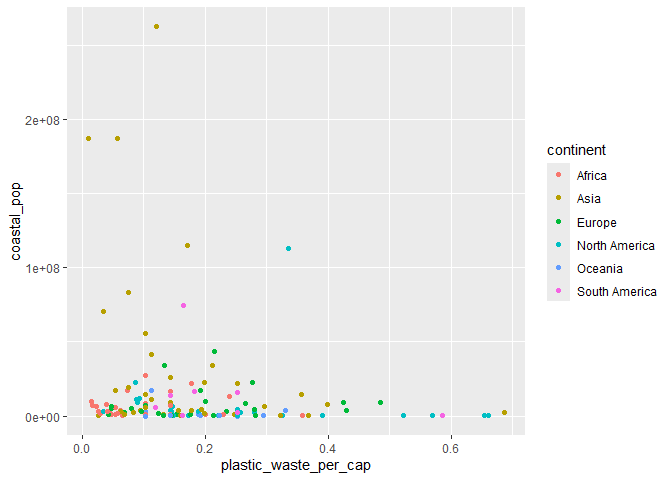
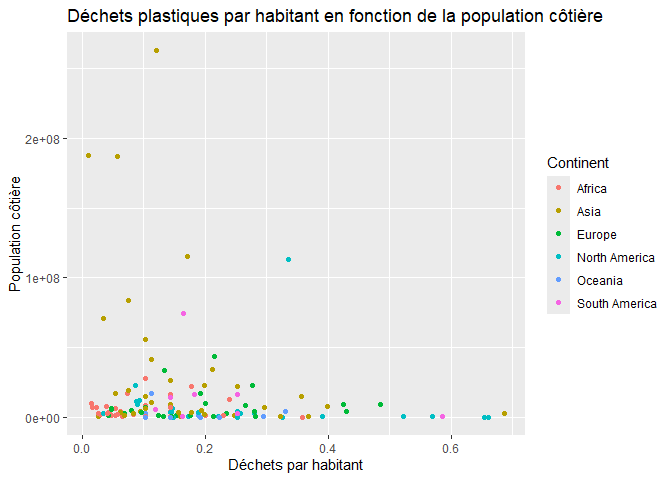
Labo terminer

diff --git a/lab-02.md b/lab-02.md
@@ -29,7 +29,7 @@ plastic_waste <- plastic_waste %>%
 ggplot(plastic_waste, aes(x = plastic_waste_per_cap)) +
   geom_histogram(binwidth = 0.2) +
   facet_wrap(~ continent) +
-  labs(title = 'quantité de déchet par habitant')
+  labs(title = 'Quantité de déchets par habitant', x = 'Déchets par habitant', y = 'Nombre de pays')
 ```
 
 ![](lab-02_files/figure-gfm/plastic-waste-continent-1.png)<!-- -->
@@ -40,7 +40,8 @@ ggplot(plastic_waste, aes(x = plastic_waste_per_cap)) +
 ggplot(plastic_waste, aes(x = plastic_waste_per_cap,
                           fill = continent, color = continent)) + 
   geom_density(adjust = 1,
-               alpha = 0.4)
+               alpha = 0.4) +
+  labs(title = 'Distribution des déchets par habitant', x = 'Déchets par habitant', y = 'Densité')
 ```
 
 ![](lab-02_files/figure-gfm/plastic-waste-density-1.png)<!-- -->
@@ -56,7 +57,8 @@ Boxplot:
 
 ``` r
 ggplot(plastic_waste, aes(x = continent, y = plastic_waste_per_cap)) +
-  geom_boxplot()
+  geom_boxplot() +
+  labs(title = 'Répartition des déchets par habitant selon le continent', y = 'Déchets par habitant', x = 'Continent')
 ```
 
 ![](lab-02_files/figure-gfm/plastic-waste-boxplot-1.png)<!-- -->
@@ -65,7 +67,8 @@ Violin plot:
 
 ``` r
 ggplot(plastic_waste, aes(x = continent, y = plastic_waste_per_cap)) +
-  geom_violin()
+  geom_violin() +
+   labs(title = 'Distribution des déchets par habitant selon le continent', y = 'Déchets par habitant', x = 'Continent')
 ```
 
 ![](lab-02_files/figure-gfm/plastic-waste-violin-1.png)<!-- -->
@@ -79,7 +82,8 @@ visuel.
 
 ``` r
 ggplot(plastic_waste, aes(x = plastic_waste_per_cap, y = mismanaged_plastic_waste_per_cap, color = continent)) +
-  geom_point()
+  geom_point() +
+  labs(title = 'Déchets produits vs déchets non gérés par pays', x = 'Déchets par habitant', y = 'Déchets mal gérés par habitant', color = 'Continent')
 ```
 
 ![](lab-02_files/figure-gfm/plastic-waste-mismanaged-1.png)<!-- -->
@@ -97,7 +101,8 @@ l’amérique et l’europe les gère bien.
 
 ``` r
 ggplot(plastic_waste, aes(x = plastic_waste_per_cap, y = total_pop, color = continent)) +
-  geom_point()
+  geom_point() +
+  labs(title = 'Déchets plastiques par habitant en fonction de la population totale', x = 'Déchets par habitant', y = 'Population total', color = 'Continent')
 ```
 
     ## Warning: Removed 10 rows containing missing values or values outside the scale range
@@ -107,7 +112,8 @@ ggplot(plastic_waste, aes(x = plastic_waste_per_cap, y = total_pop, color = cont
 
 ``` r
 ggplot(plastic_waste, aes(x = plastic_waste_per_cap, y = coastal_pop, color = continent)) +
-  geom_point()
+  geom_point() +
+   labs(title = 'Déchets plastiques par habitant en fonction de la population côtière', x = 'Déchets par habitant', y = 'Population côtière', color = 'Continent')
 ```
 
 ![](lab-02_files/figure-gfm/plastic-waste-population-coastal-1.png)<!-- -->
@@ -125,7 +131,7 @@ plastic_waste_coastal <- plastic_waste %>%
 ggplot(plastic_waste_coastal, aes(y = plastic_waste_per_cap, x = coastal_pop_prop, color = continent)) +
   geom_point() +
   geom_smooth(method = 'loess', color = 'black', fill = 'grey', se = TRUE) +
-  labs(title = 'Quantité de déchets plastiques vs Porportion de la population côtière', subtitle = 'Selon le continent', x = 'Porportion de la population côtière (Coastal/total population)', y = 'Nombre de déchets plastiques par habitant')
+  labs(title = 'Quantité de déchets plastiques vs Porportion de la population côtière', subtitle = 'Selon le continent', x = 'Porportion de la population côtière (Coastal / total population)', y = 'Nombre de déchets plastiques par habitant', color = 'Continent')
 ```
 
     ## `geom_smooth()` using formula = 'y ~ x'
@@ -137,3 +143,10 @@ ggplot(plastic_waste_coastal, aes(y = plastic_waste_per_cap, x = coastal_pop_pro
     ## (`geom_point()`).
 
 ![](lab-02_files/figure-gfm/recreate-viz-1.png)<!-- -->
+
+Un pays avec une population côtière plus importante produit légèrement
+plus de déchets plastiques par habitant. Comme la population côtière est
+généralement plus faible que la non côtière, la majorité des points se
+concentrent au début du graphique (x \< 1). Mais la tendance reste
+faible, l’augmentation des déchets est légère. Les vraies différences
+viennent surtout des continents(richesse) et de la gestion des déchets.
